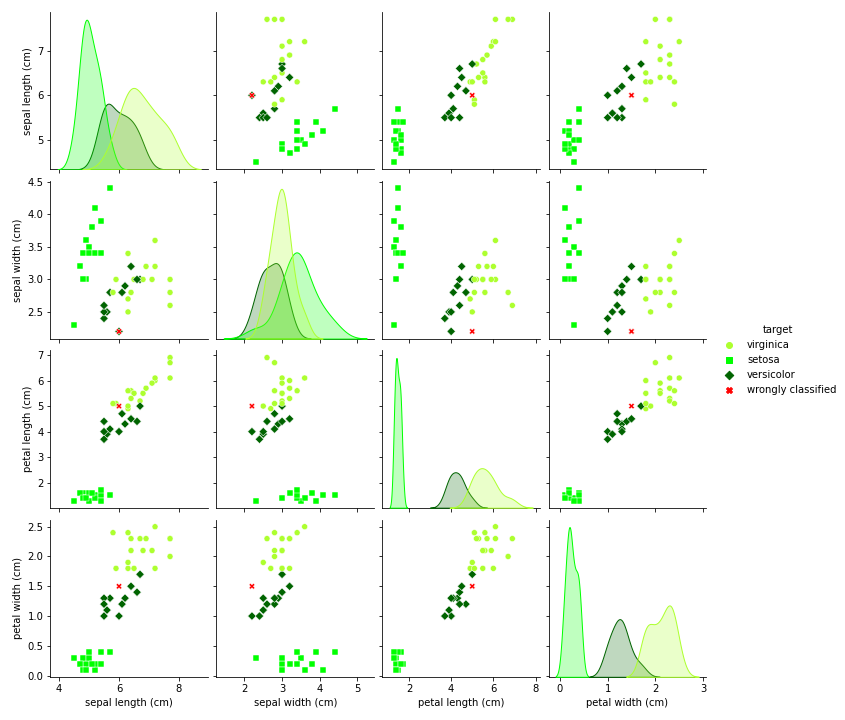
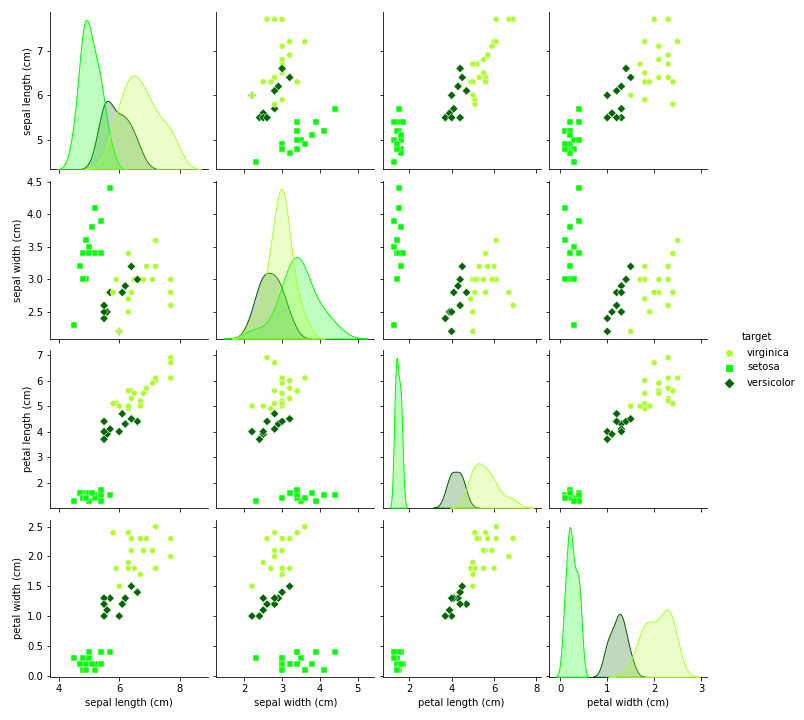
add hyperparameter tuning to KNN and update plotting again

diff --git a/common_ML_algorithms/knn/plotKNN.py b/common_ML_algorithms/knn/plotKNN.py
@@ -1,12 +1,11 @@
 import numpy as np
 import pandas as pd
+from sklearn import metrics
 import matplotlib.pyplot as plt
 import seaborn as sns
 
-def plotKNN(input_data, X_test, y_test, y_hat):
-    
-    y_hat[y_hat != y_test] = 3.0
-    
+def plotKNN(input_data, X_test, y_test, y_hat, optimal_k):
+        
     ## create dataframe for visualization
     df = pd.DataFrame(data=np.c_[input_data['data'], input_data['target']], columns=input_data['feature_names'] + ['target'])
     df_pred = pd.DataFrame(data=np.c_[X_test, y_hat], columns=input_data['feature_names'] + ['target'])
@@ -18,6 +17,7 @@ def plotKNN(input_data, X_test, y_test, y_hat):
     sns.histplot(data=df, x=input_data.feature_names[2], bins=50, color="green", ax=axs[1, 0])
     sns.histplot(data=df, x=input_data.feature_names[3], bins=50, color="lime", ax=axs[1, 1])
     fig.tight_layout()
+    plt.suptitle('Histograms of iris dataset features', y=1.05)
     plt.savefig('knn_histograms.png')
     plt.show()
     
@@ -25,6 +25,7 @@ def plotKNN(input_data, X_test, y_test, y_hat):
     ax = sns.heatmap(df[input_data.feature_names].corr(), cmap="Greens", annot=True, square=True)
     ax.set_ylim(0, len(df[input_data.feature_names].corr()))
     plt.tight_layout()
+    plt.suptitle('Correlation matrix for iris dataset features', y=1.05)
     plt.savefig('knn_corr_matrix.png')
     plt.show()
     
@@ -33,14 +34,19 @@ def plotKNN(input_data, X_test, y_test, y_hat):
     df['target'][df["target"] == 1.0] = input_data.target_names[1]
     df['target'][df["target"] == 2.0] = input_data.target_names[2]
     sns.pairplot(df, hue="target", palette=['greenyellow','lime', 'darkgreen'], markers=["o", "s", "D"])
+    plt.suptitle('Pair plots for features of iris dataset', y=1.05)
     plt.savefig('knn_pairplots.png')
     plt.show()
     
-    ## prediction pairplots
+    ## prediction pairplots -> evaluate accuracy
+    y_hat[y_hat != y_test] = 3.0
+
     df_pred['target'][df_pred["target"] == 0.0] = input_data.target_names[0]
     df_pred['target'][df_pred["target"] == 1.0] = input_data.target_names[1]
     df_pred['target'][df_pred["target"] == 2.0] = input_data.target_names[2]
     df_pred['target'][df_pred["target"] == 3.0] = 'wrongly classified'
+
     sns.pairplot(df_pred, hue="target", palette=['greenyellow','lime', 'darkgreen', 'red'], markers=["o", "s", "D", "X"])
+    plt.suptitle('KNN results: k = '+str(optimal_k)+' with accuracy: '+str(metrics.accuracy_score(y_test, y_hat)), y=1.05)
     plt.savefig('knn_pairplots_predicted.png')
     plt.show()

diff --git a/common_ML_algorithms/knn/knn.py b/common_ML_algorithms/knn/knn.py
@@ -1,17 +1,20 @@
 from sklearn.neighbors import KNeighborsClassifier
 from sklearn.datasets import load_iris
 from sklearn.model_selection import train_test_split
-from sklearn import metrics
 import numpy as np
 import pandas as pd
 from plotKNN import plotKNN
+from tuneHyperParameters import tuneHyperParameters
 
 ## load and split
 iris_data = load_iris()
 X_train, X_test, y_train, y_test = train_test_split( iris_data.data, iris_data.target, test_size = 0.3, random_state = 100 )
 
+## tune hyperparameters
+optimal_k = tuneHyperParameters(X_train, y_train)
+
 ## create model
-sk_knn = KNeighborsClassifier(n_neighbors=5)
+sk_knn = KNeighborsClassifier(n_neighbors=optimal_k)
 
 ## train
 sk_knn.fit(X_train, y_train)
@@ -19,8 +22,5 @@ sk_knn.fit(X_train, y_train)
 ## predict
 y_hat = sk_knn.predict(X_test)
 
-## evaluate
-print("Accuracy:",metrics.accuracy_score(y_test, y_hat))
-
-## plotting
-plotKNN(iris_data, X_test, y_test, y_hat)
+## plot and evaluate
+plotKNN(iris_data, X_test, y_test, y_hat, optimal_k)

diff --git a/common_ML_algorithms/knn/tuneHyperParameters.py b/common_ML_algorithms/knn/tuneHyperParameters.py
@@ -1,0 +1,18 @@
+from sklearn.model_selection import cross_val_score
+from sklearn.neighbors import KNeighborsClassifier
+import matplotlib.pyplot as plt
+
+def tuneHyperParameters(X_train, y_train):
+
+    k_values = range(1,50)
+    cv_k = lambda k: cross_val_score(KNeighborsClassifier(n_neighbors=k), X_train, y_train, cv=10).mean()
+    k_scores = list(map(cv_k, k_values))
+    optimal_k = k_values[k_scores.index(max(k_scores))]
+    plt.plot(k_values, k_scores)
+    plt.title('K value vs. cross validation score: optimal k = '+str(optimal_k))
+    plt.xlabel('K value')
+    plt.ylabel('Accuracies')
+    plt.savefig('knn_k_values.png')
+    plt.show()
+    
+    return optimal_k

diff --git a/common_ML_algorithms/README.md b/common_ML_algorithms/README.md
@@ -34,6 +34,12 @@ sci-kit learn implementation using iris dataset
 |:--:| 
 | *Pair plots* |
 
+### Tune Hyperparameters
+
+| ![k values](./knn/k_values.png) |
+|:--:| 
+| *k values vs. accuracy* |
+
 ## Predictions
 | ![Pair plots for predicted classes](./knn/knn_pairplots_predicted.png) |
 |:--:| 
